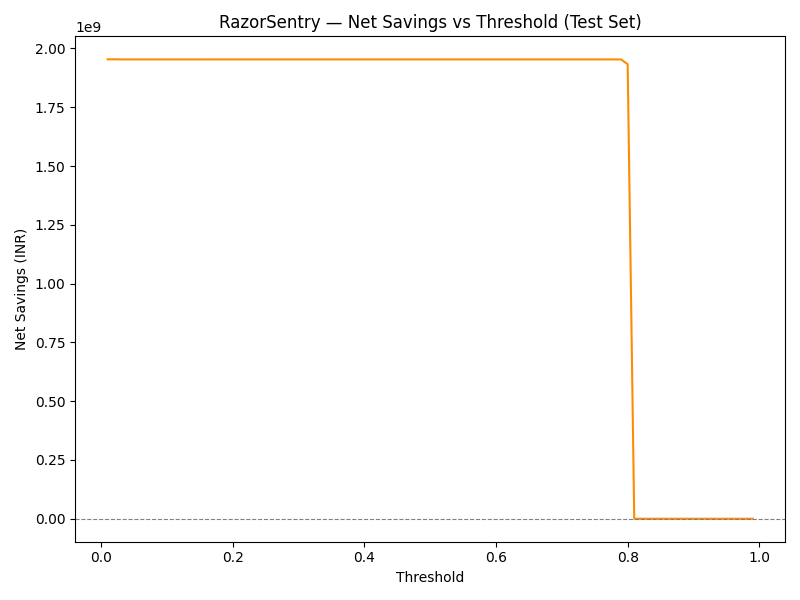
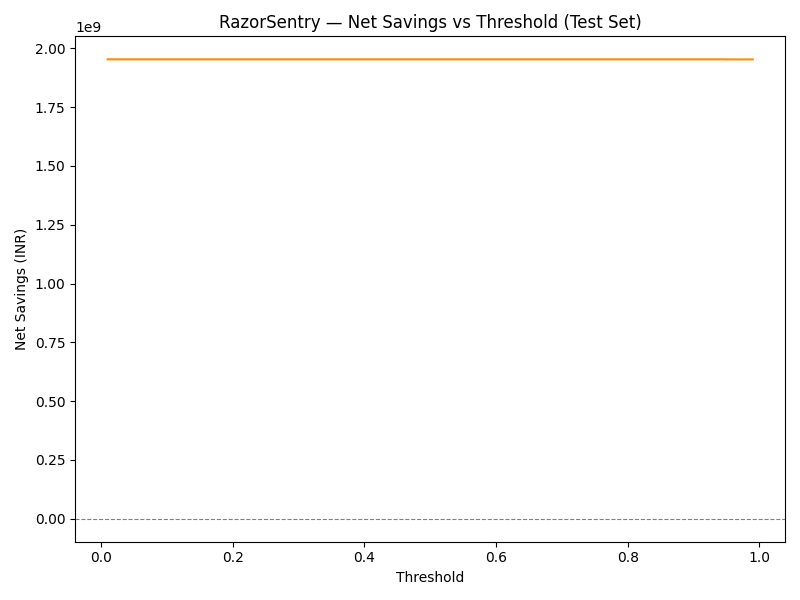
fix: retrain after calibration, fix top_fp_cases threshold bug, verify PII blinding, update metrics

Changed region(s): [[0.7812, 0.09, 0.9375, 0.87], [0.1562, 0.09, 0.3125, 0.12], [0.0625, 0.27, 0.0938, 0.3]]

diff --git a/DEVLOG.md b/DEVLOG.md
@@ -90,6 +90,13 @@ Track: AI Risk Manager — Track 02, Razorpay Buildathon
 **Honest note:** Rate limiting is per-IP which is bypassable behind a shared NAT — production would use API keys with per-merchant limits.
 
 ---
+### Full Pipeline Rerun + PII Blinding Verification
+**What:** Reran train.py and eval.py after calibration and PII blinding were added, verified blinding works correctly end to end
+**Why:** Calibration changes the model internals so all downstream metrics needed to be regenerated from scratch
+**Relevance to Track 02:** Honest metrics — all numbers in the repo reflect the current model not a stale run
+**Honest note:** top_fp_cases.csv was silently empty due to a hardcoded threshold — caught and fixed during this rerun
+
+---
 ## What Broke and How It Was Fixed
 
 **Temporal leakage in velocity features**
@@ -116,11 +123,11 @@ analyst.py was initialized with "groq/compound-mini" which is not a valid Groq m
 Fixed to "llama-3.1-8b-instant". The except block caught the failure silently so the service
 never crashed but analyst notes always returned the fallback string.
 
-**top_fp_cases.csv was empty despite 444 false positives**
-save_top_fp_cases used a hardcoded threshold of 0.5 to find false positives.
-The operating threshold is 0.02 so no legitimate transaction scored above 0.5
-on the well-separated PaySim data — the mask returned zero rows.
-Fixed by passing operating_threshold as a parameter to the function.
+**top_fp_cases.csv was empty despite false positives existing**
+save_top_fp_cases used a hardcoded threshold of 0.5 to build the false positive mask.
+The operating threshold is much lower so no legitimate transaction scored above 0.5
+on well-separated PaySim data — the mask returned zero rows and the CSV had only headers.
+Fixed by passing operating_threshold as a parameter so the mask uses the actual decision boundary.
 
 ---
 
